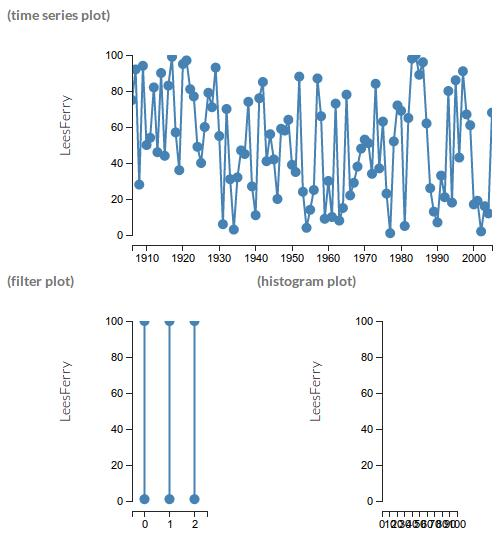
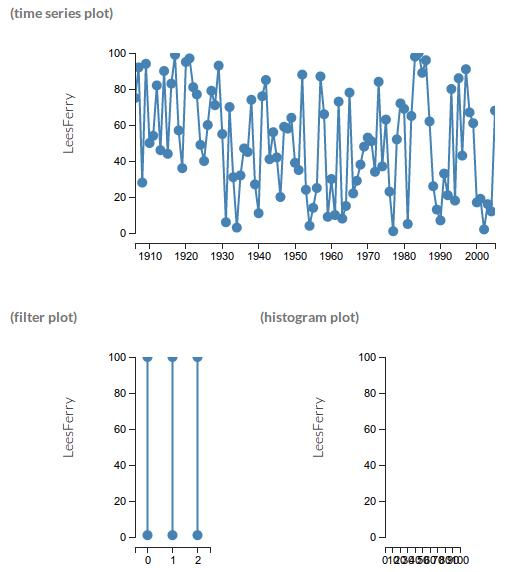
Changes based on first round of feedback from Connie Woodhouse.

diff --git a/tutorial_simpleexample.html b/tutorial_simpleexample.html
@@ -27,7 +27,7 @@
       </section>
       <section>
         <div id="container">
-          <div id="timeline-chart", class="charts">
+          <div id="timeline-chart", class="charts", style="margin-bottom:1cm">
             <div class="title"><b>(time series plot)</b></div>
           </div>
           <div id="filter-chart", class="charts">
